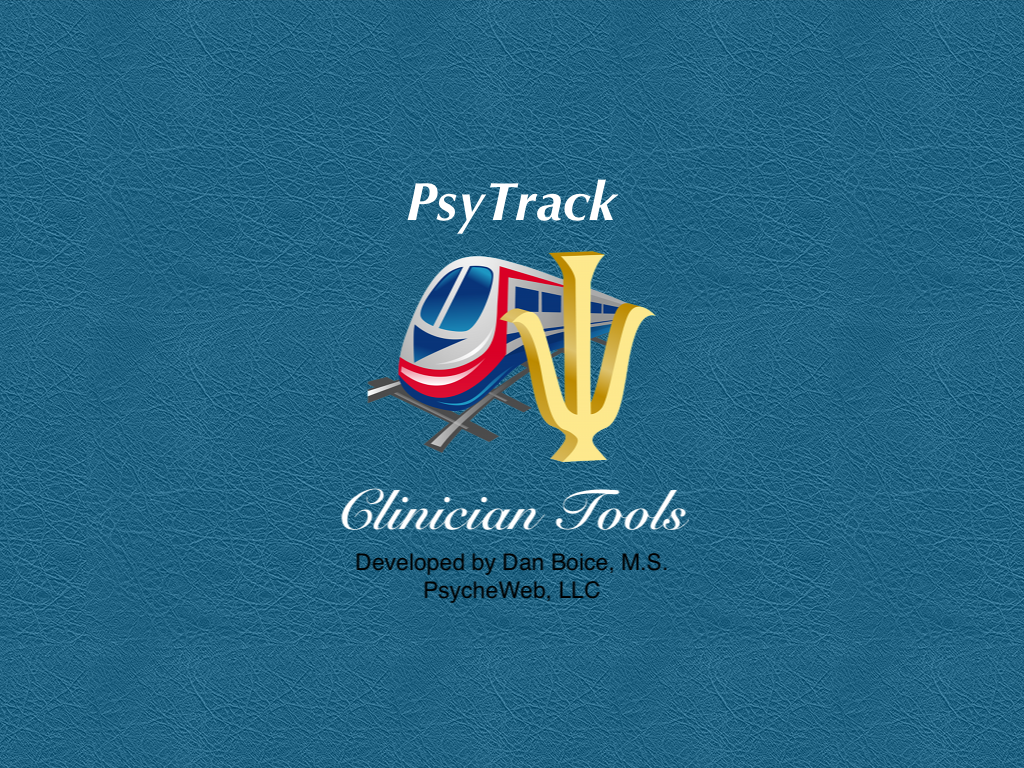
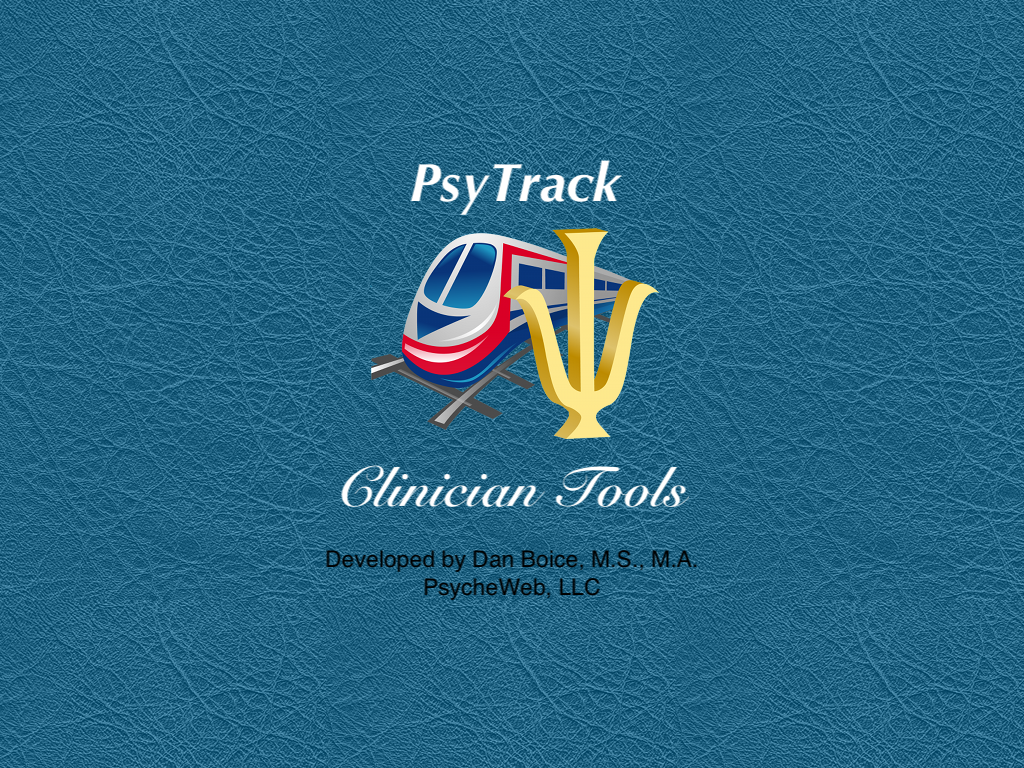
updated launch images

diff --git a/PTTAppDelegate.m b/PTTAppDelegate.m
@@ -764,7 +764,7 @@
                 viewControllerInArray.view.userInteractionEnabled=YES;
             }
             [self.window addSubview:self.tabBarController.view];
-//             [self flashAppTrainAndTitleGraphics];
+             [self flashAppTrainAndTitleGraphics];
         }
         [self displayNotification:statusMessage forDuration:5.0 location:kPTTScreenLocationTop inView:containerView];
         
@@ -782,8 +782,7 @@
         }
         [self.window addSubview:self.tabBarController.view];
         
-//         [self flashAppTrainAndTitleGraphics];
-        self.tabBarController.view.hidden=YES;
+         [self flashAppTrainAndTitleGraphics];
 
         
     } else if(isAppLocked||isLockedAtStartup) {
